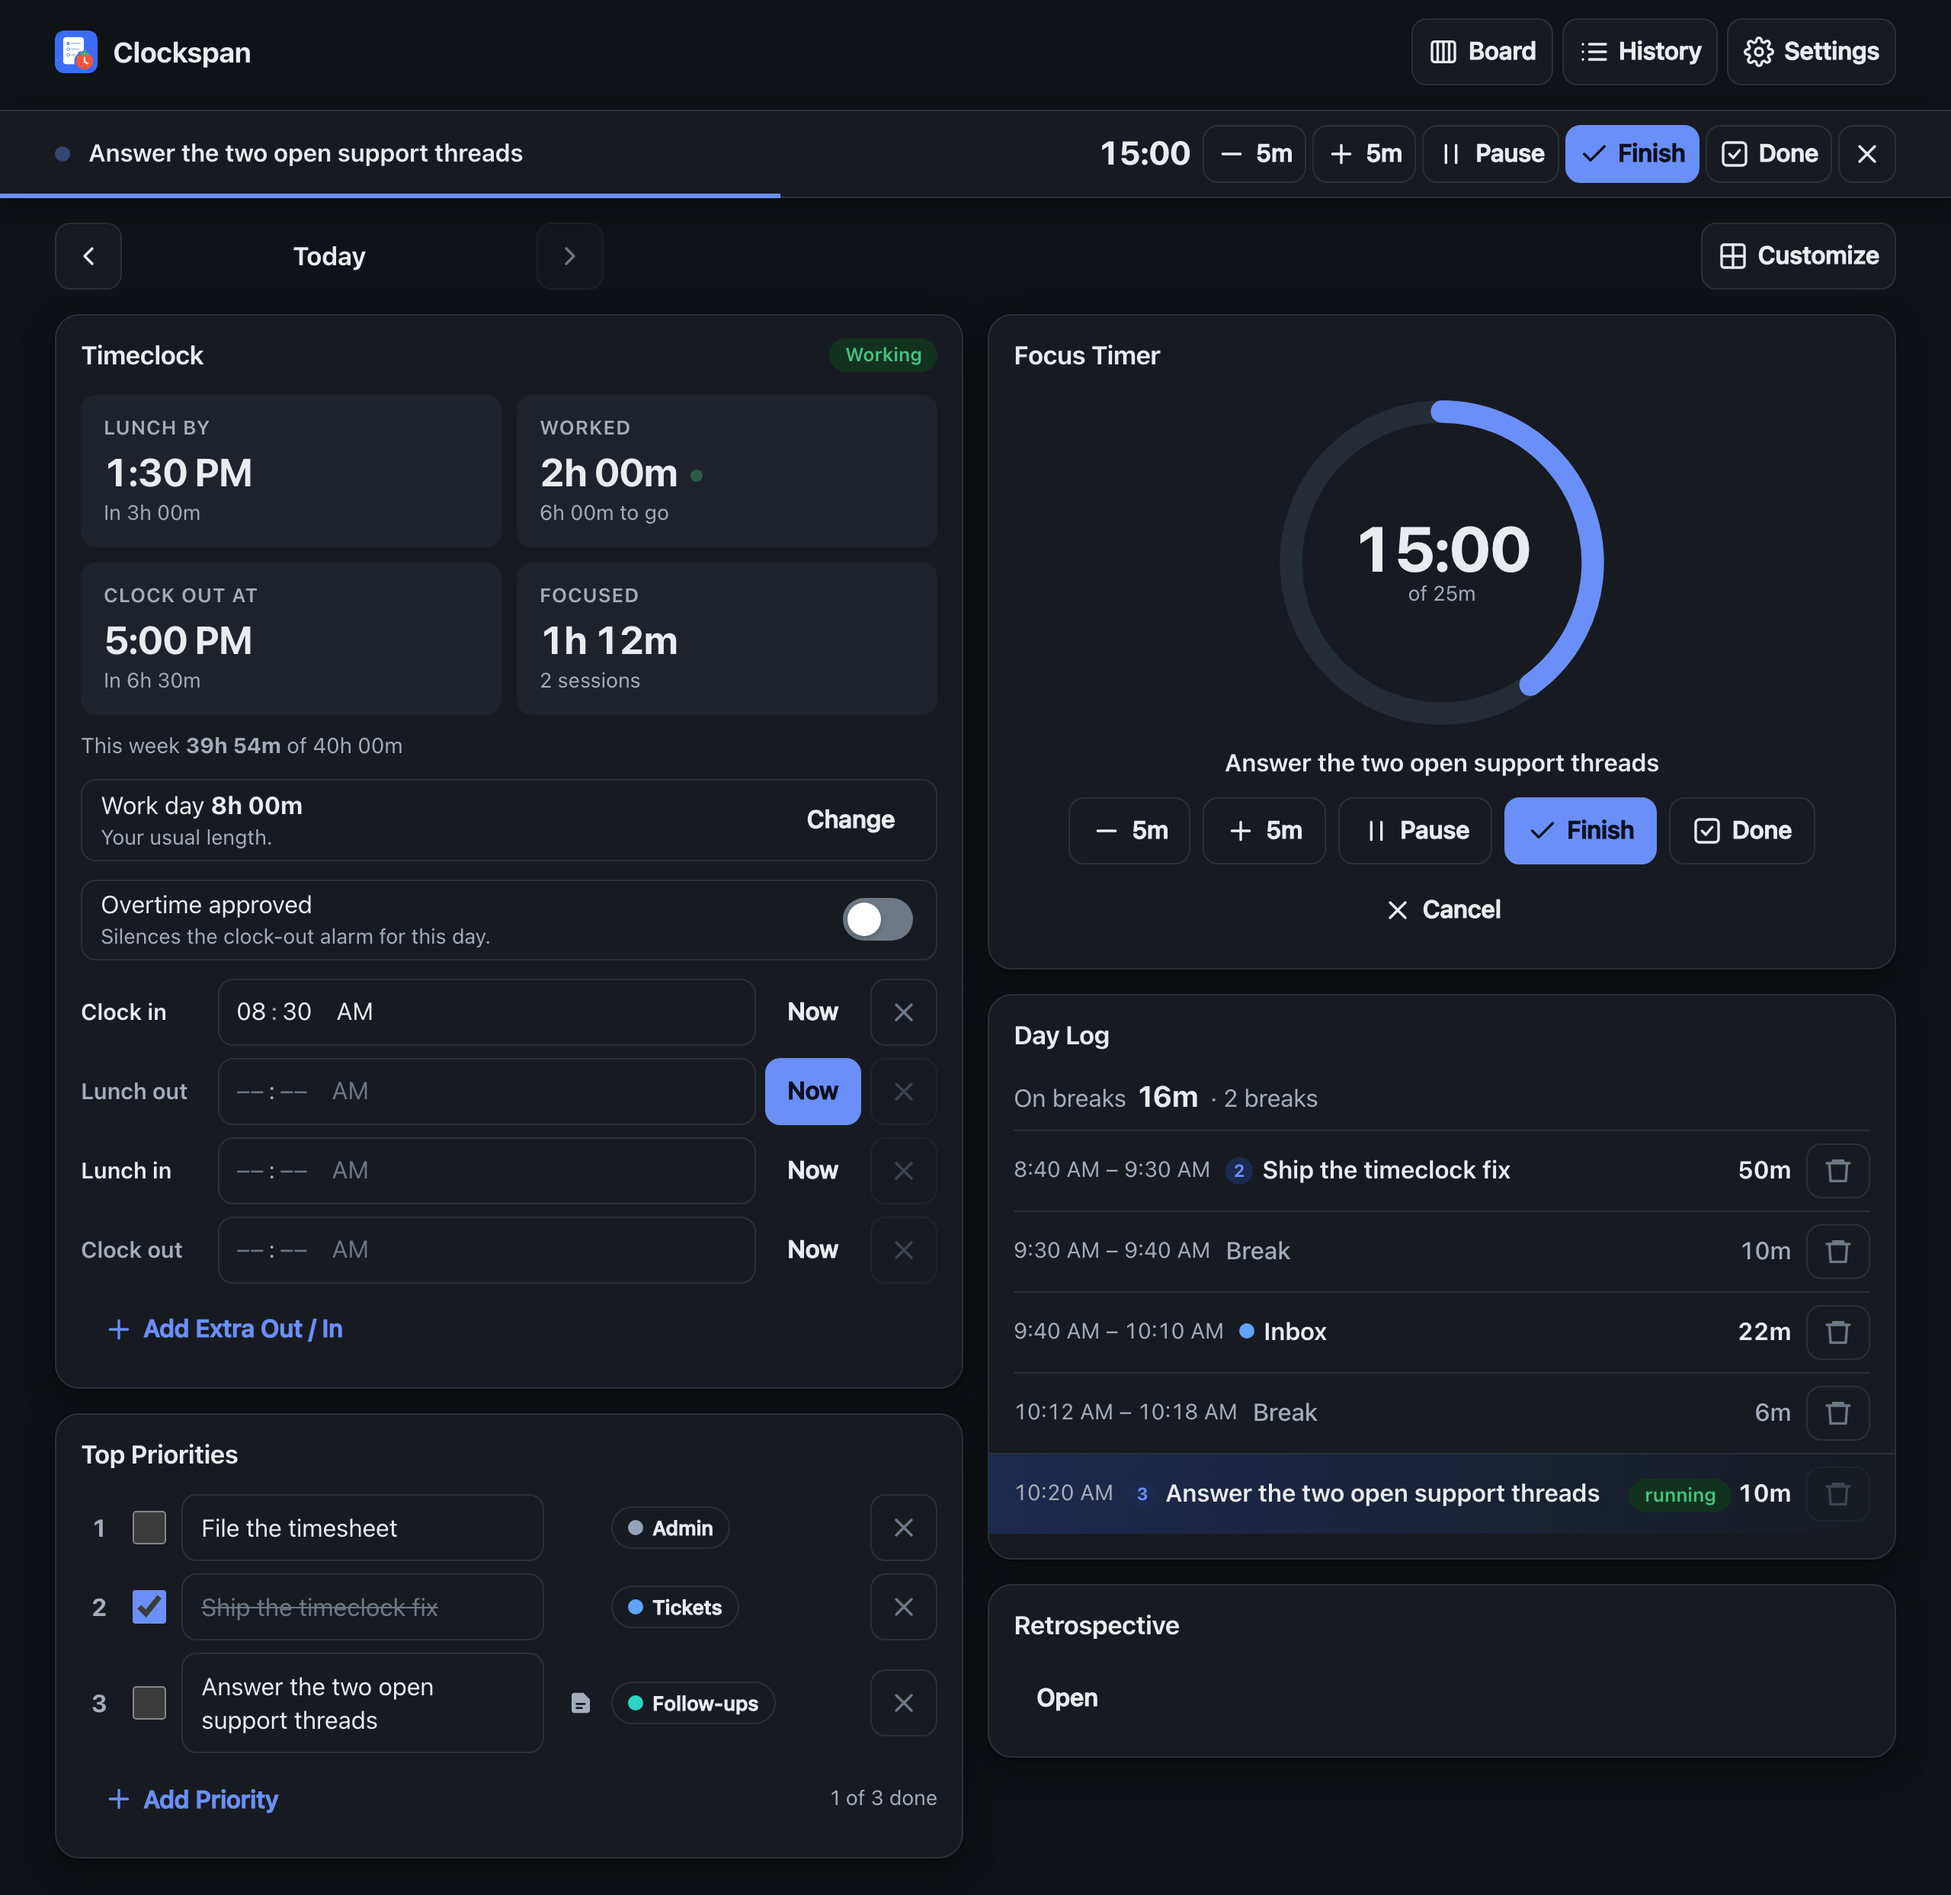
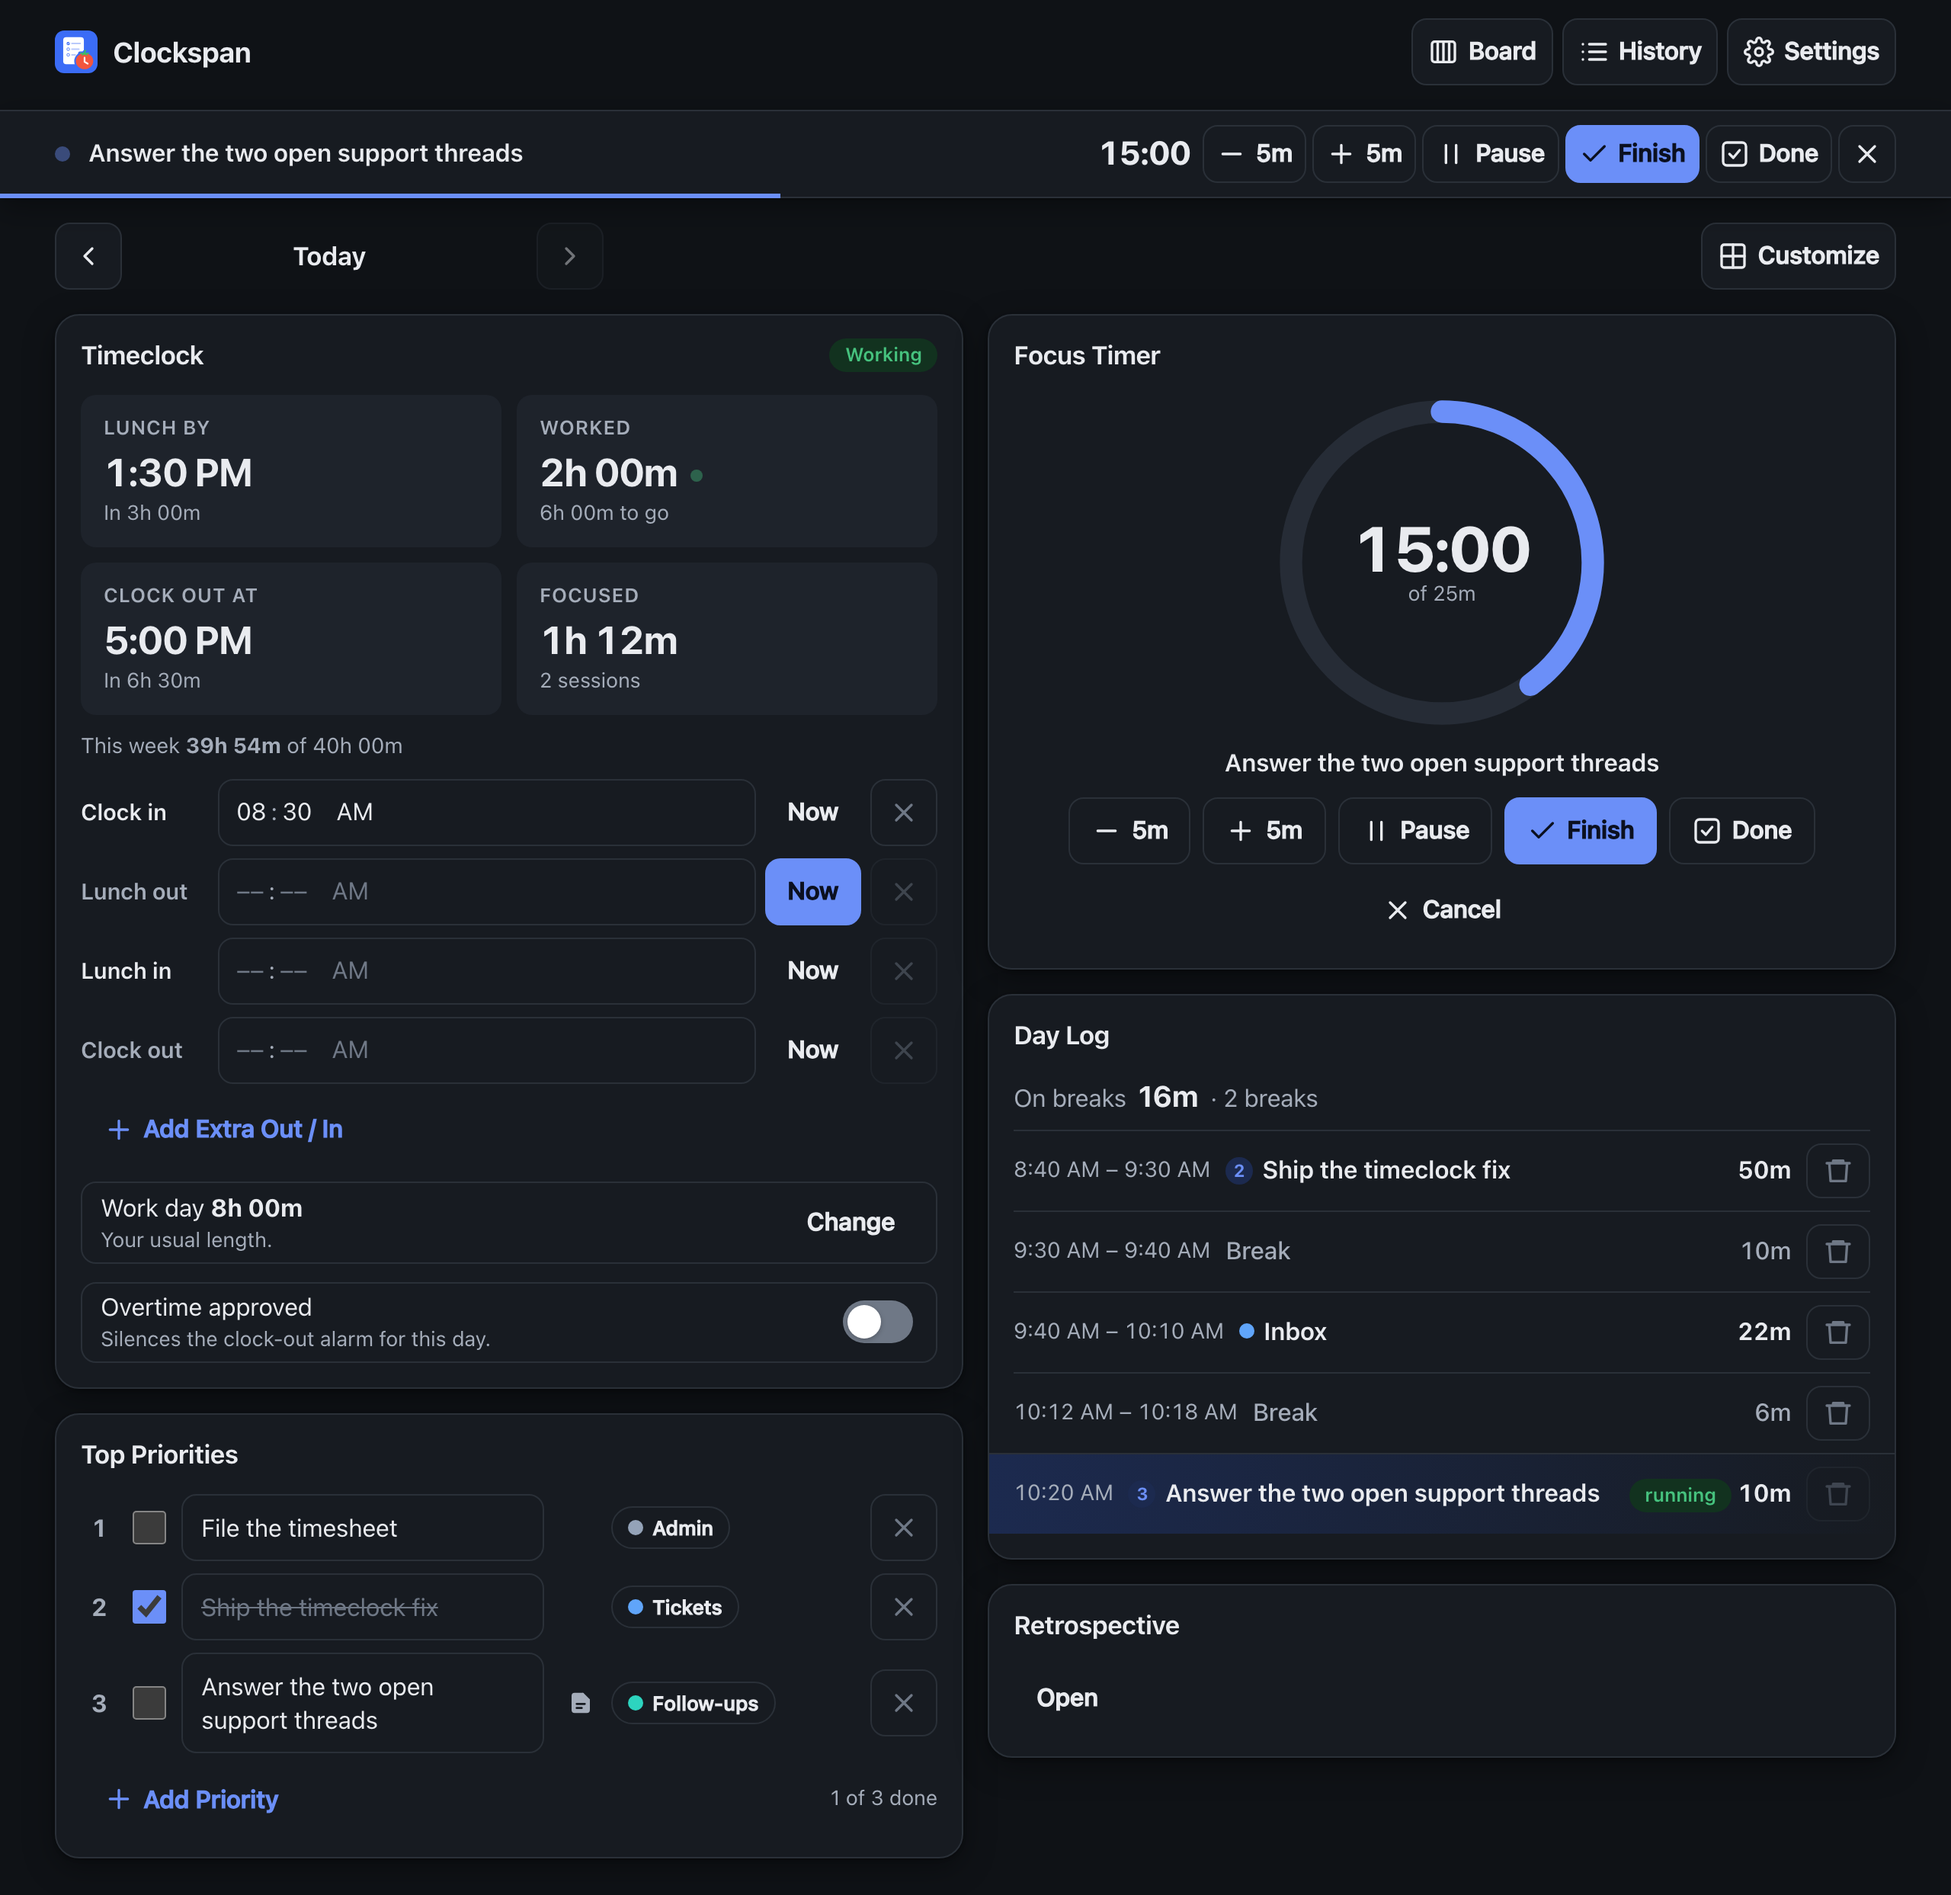
Put the punch rows above the per-day options (#485)
On the timeclock card, the punch rows and Add Extra Out / In now come
right after the week line, and Work day and the Overtime approved switch
sit under them. Before, those two per-day options sat between the week
line and Clock in, so today's highlighted Now was pushed down past two
controls most days never touch. On a phone the fold cut through the
Clock out row. Opening Work day → Change also pushed every punch row
down; it now opens below them.

- `Timeclock.tsx`: `<WorkDay>` and the Overtime `Toggle` move,
unchanged, from above `.punches` to just after it, still direct children
of `.timeclock`. The order changes in the JSX only, so the tab order
matches the screen: punch rows, Add Extra Out / In, Change, then the
switch. The focus helpers still look only inside `.punches`. No strings
change.
- `styles.css`: `.ot-row, .target-row` takes `margin-top: 12px` instead
of `margin-bottom`, so the card ends at its last box with only
`.card-body`'s padding.
- `docs/screenshots/sheet-phone-dark.png` and `sheet-desktop.png` are
regenerated in place (the README and the Unraid template link them). The
phone shot still shows the top of Top Priorities, so the README's alt
text stays true.

Verified:
- `npm run test:coverage` (136 files, 1890 tests, 100%), `typecheck`,
`lint`, `format:check`. The 20 existing `Timeclock.test.tsx` cases pass
unchanged. No new test: the order is how the card looks, which AGENTS.md
leaves to the browser.
[…]

diff --git a/client/src/components/Timeclock.tsx b/client/src/components/Timeclock.tsx
@@ -299,6 +299,21 @@ export function Timeclock({
         </p>
       )}
 
+      <div className="punches" ref={punchBox}>
+        {fixedRow(0)}
+        {pairBlock(before)}
+        {lunchRows && fixedRow(1)}
+        {lunchRows && fixedRow(2)}
+        {pairBlock(after)}
+        {clockOutPos != null && fixedRow(clockOutPos)}
+        {punches.length + 2 <= MAX_PUNCHES && (
+          <button className="btn btn-ghost punch-add" onClick={addPair}>
+            <Plus />
+            Add Extra Out / In
+          </button>
+        )}
+      </div>
+
       <WorkDay usual={settings.workMinutes} own={workMinutes} onChange={onWorkMinutesChange} />
 
       {otFeature && (
@@ -314,21 +329,6 @@ export function Timeclock({
           onChange={onOvertimeChange}
         />
       )}
-
-      <div className="punches" ref={punchBox}>
-        {fixedRow(0)}
-        {pairBlock(before)}
-        {lunchRows && fixedRow(1)}
-        {lunchRows && fixedRow(2)}
-        {pairBlock(after)}
-        {clockOutPos != null && fixedRow(clockOutPos)}
-        {punches.length + 2 <= MAX_PUNCHES && (
-          <button className="btn btn-ghost punch-add" onClick={addPair}>
-            <Plus />
-            Add Extra Out / In
-          </button>
-        )}
-      </div>
     </div>
   );
 }

diff --git a/client/src/styles.css b/client/src/styles.css
@@ -1188,7 +1188,7 @@ button {
 }
 .ot-row,
 .target-row {
-  margin-bottom: 12px;
+  margin-top: 12px;
   padding: 4px 12px;
   border: 1px solid var(--border);
   border-radius: var(--radius-sm);
